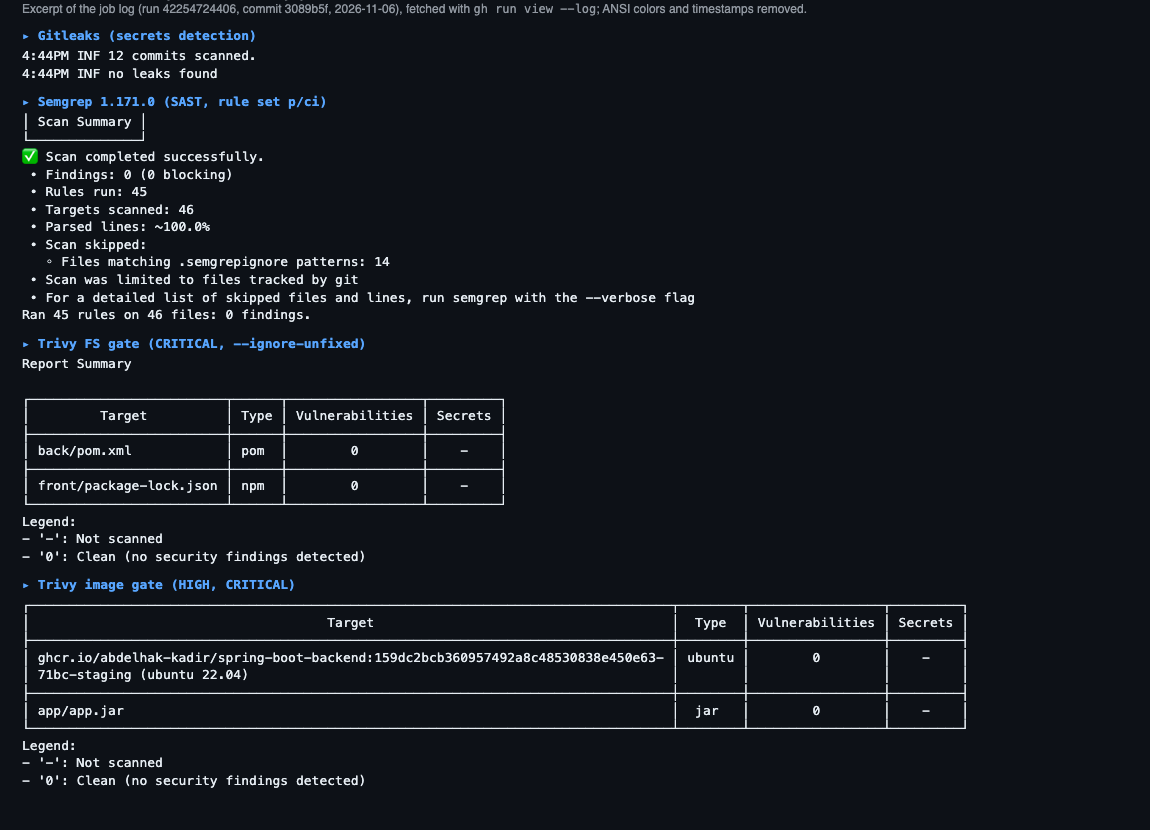
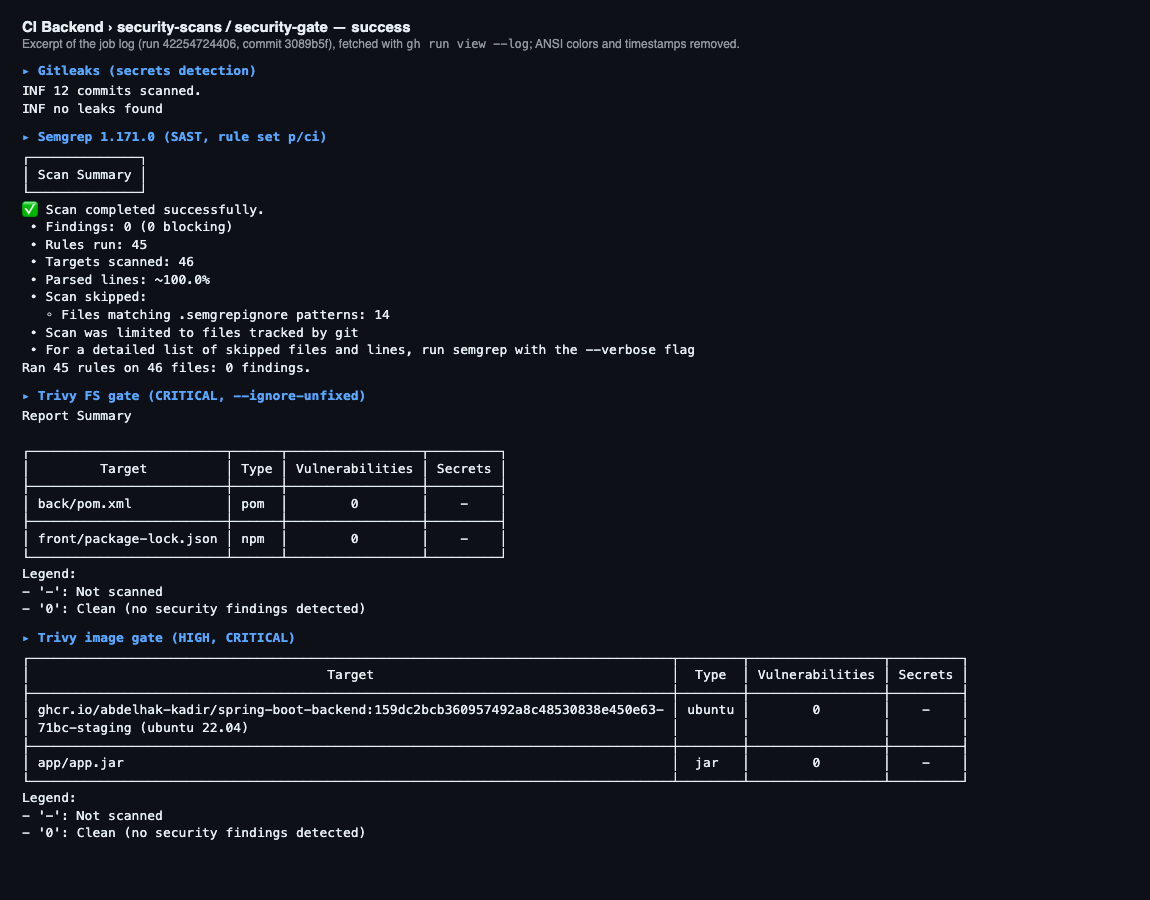
docs: remove dates from the report body
Drops the calendar dates from the Results and Challenges chapters and their figure captions, and re-renders the security-gate log and Ansible images without dates or timestamps. The title page, CVE identifiers, bibliography and the .trivyignore expiry date are kept.

Changed region(s): [[0.0, 0.0, 0.8522, 0.9639]]

diff --git a/docs/chapters/08-challenges-solutions.tex b/docs/chapters/08-challenges-solutions.tex
@@ -10,12 +10,12 @@ This chapter records the difficulties we met and how we resolved them, in two gr
 \section{Challenges Met During Development}
 
 \begin{description}
-  \item[Circular dependency in the security configuration.] After JWT authentication was added (July 2025), the application context failed to start because the beans building the authentication manager and the one loading user details depended on each other: the user-details logic lived inside the security configuration class. We extracted it into a separate component, \texttt{SimpleUserDetailsService}, which reads the single application user from environment variables and exposes it with a BCrypt-hashed password. The context starts normally; the price is the single-account limitation.
+  \item[Circular dependency in the security configuration.] After JWT authentication was added, the application context failed to start because the beans building the authentication manager and the one loading user details depended on each other: the user-details logic lived inside the security configuration class. We extracted it into a separate component, \texttt{SimpleUserDetailsService}, which reads the single application user from environment variables and exposes it with a BCrypt-hashed password. The context starts normally; the price is the single-account limitation.
   \item[Container start order.] With Docker Compose, the backend could start before PostgreSQL accepted connections, because a plain \texttt{depends\_on} only waits for the container to be started. The database service now declares a \texttt{pg\_isready} health check and the backend uses \texttt{condition: service\_healthy}; the local stack reaches a healthy state without manual restarts.
   \item[Configuration and secrets.] The backend needs a database URL, a JWT secret and the application user's credentials, which differ between environments, and an example JWT secret had been committed early on. Spring now reads every secret from environment variables; on the servers, Ansible renders them from a template using an Ansible Vault file per environment, whose password file is excluded from version control. Gitleaks still reports the example key in \texttt{.env.example}, which should become a placeholder.
   \item[Test isolation.] Integration tests must exercise the controllers and the security chain without PostgreSQL and the real credentials. The tests use an in-memory H2 database and a dedicated \texttt{TestSecurityConfig}, so the 82 backend tests run without external services.
-  \item[Terraform state and drift detection.] A state file on a developer machine cannot be shared with the pipeline and has no locking. The state now lives in a Terraform Cloud workspace through the \texttt{remote} backend, and a scheduled job of \texttt{terraform.yaml} runs a plan and opens a GitHub issue from a template when it detects a difference (several commits on 26 September 2025 were needed to get this right). The mechanism exists, but the workflow never succeeded on the remote, so drift detection is implemented but not demonstrated.
-  \item[SSH access through the bastion.] Only the bastion is reachable from the Internet, yet Ansible must configure the other servers; combining a jump host, agent forwarding, strict host-key checking and a root login that the hardening role later disables made the first inventories fragile and cost a series of commits in September 2025. The inventory is now generated from the Terraform outputs by \texttt{generate\_inventory.py} with \texttt{ProxyJump} through the bastion, and the playbook \texttt{migrate-to-ansible-user.yml} creates the non-root \texttt{ansible} account while root is still reachable, so that the SSH hardening role can then forbid root login. The playbooks pass the syntax check but were not run against real servers in the final revision, so this challenge is solved on paper and in earlier trials only.
+  \item[Terraform state and drift detection.] A state file on a developer machine cannot be shared with the pipeline and has no locking. The state now lives in a Terraform Cloud workspace through the \texttt{remote} backend, and a scheduled job of \texttt{terraform.yaml} runs a plan and opens a GitHub issue from a template when it detects a difference (several commits were needed to get this right). The mechanism exists, but the workflow never succeeded on the remote, so drift detection is implemented but not demonstrated.
+  \item[SSH access through the bastion.] Only the bastion is reachable from the Internet, yet Ansible must configure the other servers; combining a jump host, agent forwarding, strict host-key checking and a root login that the hardening role later disables made the first inventories fragile and cost a series of commits. The inventory is now generated from the Terraform outputs by \texttt{generate\_inventory.py} with \texttt{ProxyJump} through the bastion, and the playbook \texttt{migrate-to-ansible-user.yml} creates the non-root \texttt{ansible} account while root is still reachable, so that the SSH hardening role can then forbid root login. The playbooks pass the syntax check but were not run against real servers in the final revision, so this challenge is solved on paper and in earlier trials only.
 \end{description}
 
 %------------------------------------------------
@@ -31,7 +31,7 @@ This chapter records the difficulties we met and how we resolved them, in two gr
 
 \subsection{Pipeline and Infrastructure Code}
 \begin{description}
-  \item[Gates that never failed.] The Trivy scan and \texttt{npm audit} ended with \texttt{|| true}, added in August 2025 to get SARIF uploads working. Trivy now fails on critical findings; \texttt{npm audit} stays report-only because its findings come mostly from build-time dependencies (Chapter~\ref{chap:discussion}).
+  \item[Gates that never failed.] The Trivy scan and \texttt{npm audit} ended with \texttt{|| true}, added to get SARIF uploads working. Trivy now fails on critical findings; \texttt{npm audit} stays report-only because its findings come mostly from build-time dependencies (Chapter~\ref{chap:discussion}).
   \item[Triggers and policies that could not match.] The backend CD workflow waited for a workflow name that no longer existed; the scheduled Terraform trigger ran apply as well as plan; the Conftest rules used a syntax and paths that never matched a plan, and the OPA workflow pointed to a non-existent directory. The names were aligned, plan and apply are skipped for the \texttt{schedule} event with apply limited to pushes on the main branch or manual dispatch, and the rules were rewritten with \texttt{rego.v1}, checked on synthetic plans, and pointed to \texttt{infra/}.
   \item[Unused Ansible roles and variable mismatch.] Several roles were referenced by no playbook, and the backend environment template used variable names the application does not read. All roles are now wired in and the template follows the Spring configuration; vault variables for the application user and the production JWT secret still have to be created by the operators.
 \end{description}

diff --git a/docs/chapters/07-results-evaluation.tex b/docs/chapters/07-results-evaluation.tex
@@ -82,7 +82,7 @@ The command \texttt{./mvnw clean verify} ran 82 tests in 13 classes with no fail
 \centering
 \fbox{\includegraphics[width=0.40\linewidth]{images/screens/swagger-ui-ok.png}}\hfill
 \fbox{\includegraphics[width=0.54\linewidth]{images/screens/jacoco-report.png}}
-\caption{Left: Swagger UI listing the endpoints, served by the backend without authentication (local run, 7 November 2026). Right: JaCoCo HTML report of the backend (instruction and branch coverage by package).}\label{fig:swagger}\label{fig:jacoco}
+\caption{Left: Swagger UI listing the endpoints, served by the backend without authentication (local run). Right: JaCoCo HTML report of the backend (instruction and branch coverage by package).}\label{fig:swagger}\label{fig:jacoco}
 \end{figure}
 
 \subsection{Frontend Tests}
@@ -101,7 +101,7 @@ The backend container runs as user \texttt{app} (uid 999) and the frontend conta
 \toprule
 \textbf{Scanner} & \textbf{Result} \\
 \midrule
-Gitleaks (143 commits) & 1 finding: a generic API key in \texttt{.env.example}, line~7, committed in 2025. \\
+Gitleaks (143 commits) & 1 finding: a generic API key in \texttt{.env.example}, line~7, from an early commit. \\
 Semgrep (\texttt{--config auto}, 351 rules, 67 files) & 0 findings in \texttt{back/src} and \texttt{front/src}. \\
 \texttt{npm audit} (1\,384 dependencies) & 70 vulnerabilities: 3 critical, 36 high, 13 moderate, 18 low. \\
 Trivy 0.56.2, file system & 3 critical and 106 high entries (critical: \texttt{proxy-addr}, \texttt{shell-quote}, \texttt{websocket-driver}, all frontend); backend: 2 high for \texttt{postgresql} 42.7.7 and 2 for \texttt{spring-boot-starter-actuator} 3.5.6; 16 critical Terraform misconfigurations. \\
@@ -179,12 +179,12 @@ Generate OpenAPI Docs & 1 & 0 (0\,\%) & single failed run \\
 \end{tabularx}
 \end{table}
 
-The backend pipeline is stable (14 of 18 runs) but the frontend pipeline succeeded in only 8 of 25, and the two Terraform workflows never succeeded on the remote, so the infrastructure code has not been validated by this pipeline. The 100\,\% rates of the CD and security-wrapper workflows must not be read as proof of deployment: their jobs last two to four seconds and the CD Backend job is named \texttt{placeholder}. Deployment is performed by the Ansible playbooks (Figure~\ref{fig:ansible}). In the latest successful runs (12~October 2025, branch \texttt{main}), the backend run took 383~s (build 57~s, test 48~s, Docker image 140~s, security gate 132~s) and the frontend run 246~s (build and test 69~s, Docker image 108~s, security gate 64~s). The security gate of these runs predates the correction that makes the Trivy step fail on critical findings; it reported but did not block.
+The backend pipeline is stable (14 of 18 runs) but the frontend pipeline succeeded in only 8 of 25, and the two Terraform workflows never succeeded on the remote, so the infrastructure code has not been validated by this pipeline. The 100\,\% rates of the CD and security-wrapper workflows must not be read as proof of deployment: their jobs last two to four seconds and the CD Backend job is named \texttt{placeholder}. Deployment is performed by the Ansible playbooks (Figure~\ref{fig:ansible}). In the latest successful runs on \texttt{main}, the backend run took 383~s (build 57~s, test 48~s, Docker image 140~s, security gate 132~s) and the frontend run 246~s (build and test 69~s, Docker image 108~s, security gate 64~s). The security gate of these runs predates the correction that makes the Trivy step fail on critical findings; it reported but did not block.
 
 \begin{figure}[htbp]
 \centering
 \fbox{\includegraphics[width=0.95\linewidth]{images/screens/ghactions.png}}
-\caption{GitHub Actions run summary of the CI Backend workflow on pull request \#11 (build, test, image push and security gate, all successful; 6 November 2026).}\label{fig:ghactions}
+\caption{GitHub Actions run summary of the CI Backend workflow on pull request \#11 (build, test, image push and security gate, all successful).}\label{fig:ghactions}
 \end{figure}
 
 \begin{figure}[htbp]
